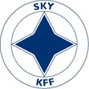
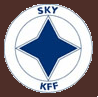
Brown colors

diff --git a/services.html b/services.html
@@ -67,105 +67,6 @@
                 käyttämistämme tuotesarjoista.
               </p>
             </div>
-
-            <!-- KÄSIHOIDOT -->
-            <div class="service-section">
-              <h1 id="hand-treatment" class="page-header">Käsihoidot</h1>
-              <p>
-                Jokainen kasvohoito on mukautettu ihosi erityispiirteiden mukaan ja on aina yksilöllisesti valittu
-                hoitokokonaisuus. Kaikkiin kasvohoitoihin voidaan yhdistää hoidon tehoa lisäävä konehoito.
-              </p>
-              <ul>
-                <li><strong>Timanttimikrohionta</strong></li>
-                <li><strong>Sonolift ultraääni</strong></li>
-              </ul>
-              <p>
-                Kaikkiin kasvohoitoihin sisältyy kaulan ja hartiaseudun hoito. Laadimme Sinulle halutessasi
-                hoitotuloksia ylläpitävän kotihoito-ohjelman. Hoitolastamme löydät laajan valikoiman kotihoitotuotteita
-                käyttämistämme tuotesarjoista.
-              </p>
-            </div>
-
-            <!-- JALKAHOIDOT -->
-            <div class="service-section">
-              <h1 id="foot-treatment" class="page-header">Jalkahoidot</h1>
-              <p>
-                Jokainen kasvohoito on mukautettu ihosi erityispiirteiden mukaan ja on aina yksilöllisesti valittu
-                hoitokokonaisuus. Kaikkiin kasvohoitoihin voidaan yhdistää hoidon tehoa lisäävä konehoito.
-              </p>
-              <ul>
-                <li><strong>Timanttimikrohionta</strong></li>
-                <li><strong>Sonolift ultraääni</strong></li>
-              </ul>
-              <p>
-                Kaikkiin kasvohoitoihin sisältyy kaulan ja hartiaseudun hoito. Laadimme Sinulle halutessasi
-                hoitotuloksia ylläpitävän kotihoito-ohjelman. Hoitolastamme löydät laajan valikoiman kotihoitotuotteita
-                käyttämistämme tuotesarjoista.
-              </p>
-            </div>
-
-            <!-- VARTALOHOIDOT -->
-            <div class="service-section">
-              <h1 id="body-treatment" class="page-header">Vartalohoidot</h1>
-              <p>
-                Jokainen kasvohoito on mukautettu ihosi erityispiirteiden mukaan ja on aina yksilöllisesti valittu
-                hoitokokonaisuus. Kaikkiin kasvohoitoihin voidaan yhdistää hoidon tehoa lisäävä konehoito.
-              </p>
-              <ul>
-                <li><strong>Timanttimikrohionta</strong></li>
-                <li><strong>Sonolift ultraääni</strong></li>
-              </ul>
-              <p>
-                Kaikkiin kasvohoitoihin sisältyy kaulan ja hartiaseudun hoito. Laadimme Sinulle halutessasi
-                hoitotuloksia ylläpitävän kotihoito-ohjelman. Hoitolastamme löydät laajan valikoiman kotihoitotuotteita
-                käyttämistämme tuotesarjoista.
-              </p>
-            </div>
-
-            <!-- CARBOKSI-TERAPIA -->
-            <div class="service-section">
-              <h1 id="carboksi" class="page-header">Carboksi-terapia</h1>
-              <p>
-                Carboksiterapialla hoidetaan turvallisesti koko kehoa ja kaikkia ihotyyppejä. Hoidon aikana tunnet hiilidioksidikuplien aiheuttaman kutituksen
-                iholla. Hoidosta ei seuraa epämukavaa oloa tai toipumisaikaa.
-              </p>
-            </div>
-
-            <!-- MIESTEN HOIDOT -->
-            <div class="service-section">
-              <h1 id="men-treatment" class="page-header">Miesten hoidot</h1>
-              <p>
-                Jokainen kasvohoito on mukautettu ihosi erityispiirteiden mukaan ja on aina yksilöllisesti valittu
-                hoitokokonaisuus. Kaikkiin kasvohoitoihin voidaan yhdistää hoidon tehoa lisäävä konehoito.
-              </p>
-              <ul>
-                <li><strong>Timanttimikrohionta</strong></li>
-                <li><strong>Sonolift ultraääni</strong></li>
-              </ul>
-              <p>
-                Kaikkiin kasvohoitoihin sisältyy kaulan ja hartiaseudun hoito. Laadimme Sinulle halutessasi
-                hoitotuloksia ylläpitävän kotihoito-ohjelman. Hoitolastamme löydät laajan valikoiman kotihoitotuotteita
-                käyttämistämme tuotesarjoista.
-              </p>
-            </div>
-
-            <!-- KESTOPIGMENTOINTI -->
-            <div class="service-section">
-              <h1 class="page-header">Kestopigmentointi</h1>
-              <p>
-                Jokainen kasvohoito on mukautettu ihosi erityispiirteiden mukaan ja on aina yksilöllisesti valittu
-                hoitokokonaisuus. Kaikkiin kasvohoitoihin voidaan yhdistää hoidon tehoa lisäävä konehoito.
-              </p>
-              <ul>
-                <li><strong>Timanttimikrohionta</strong></li>
-                <li><strong>Sonolift ultraääni</strong></li>
-              </ul>
-              <p>
-                Kaikkiin kasvohoitoihin sisältyy kaulan ja hartiaseudun hoito. Laadimme Sinulle halutessasi
-                hoitotuloksia ylläpitävän kotihoito-ohjelman. Hoitolastamme löydät laajan valikoiman kotihoitotuotteita
-                käyttämistämme tuotesarjoista.
-              </p>
-            </div>
           </div>
           <!-- Sivupalkin menu -->
           <div class="col-md-3">
@@ -173,23 +74,20 @@
               <li>
                 <a href="services.html#face-treatment">Kasvohoidot</a>
                 <ul>
+                  <li><a href="medik.html">Medik8</a></li>
                   <li><a href="mikroneulaus.html">Mikroneulaus</a></li>
-                  <li><a href="dermicapen.html">Dermica Pen</a></li>
+                  <li><a href="karboksi.html">Karboksiterapia</a></li>
                   <li><a href="infusion.html">Infusion</a></li>
-                  <li><a href="mdformulations.html">Md formulations</a></li>
+                  <li><a href="decleor.html">Decleor</a></li>
+                  <li><a href="timantti.html">Timantti -ja ultraäänihoidot</a></li>
+                  <li><a href="eckstein.html">Eckstein</a></li>
                 </ul>
               </li>
-              <li><a href="services.html#hand-treatment">Käsihoidot</a></li>
-              <li><a href="services.html#foot-treatment">Jalkahoidot</a></li>
-              <li><a href="services.html#body-treatment">Vartalohoidot</a></li>
-              <li>
-              	<a href="services.html#carboksi">Carboksi-terapia</a>
-              	<ul>
-              		<li><a href="carboksi.html">Lue lisää</a></li>
-              	</ul>
-       		  </li>
-              <li><a href="services.html#men-treatment">Miesten hoidot</a></li>
-              <li><a href="services.html#">Kestopigmentointi</a></li>
+              <li><a href="kasihoidot.html">Käsihoidot</a></li>
+              <li><a href="jalkahoidot.html">Jalkahoidot</a></li>
+              <li><a href="vartalohoidot.html">Vartalohoidot</a></li>
+              <li><a href="miehille.html">Miehille</a></li>
+              <li><a href="infrapuna.html">Infrapunasauna</a></li>
             </ul>
           </div>
         </div>

diff --git a/css/tinas.css b/css/tinas.css
@@ -5,8 +5,12 @@
  * Middle:     #5ab953
  * Light: 		 #beee9e
  * Lightest:   #e6ffbf
- old heder:#49a34b
+ old header:#49a34b
  old footer:#f5f5f5
+ old hover #5ab953
+ old active menu #3f8c40
+ old side menu text #3f8c40
+ old side menu hover #e6ffbf
  */
 body {
 
@@ -17,7 +21,7 @@ body {
 .navbar-custom {
   background-color: #4E2E28;
   margin-bottom: 0;
-	border-bottom: 1px solid #3f8c40;
+	border-bottom: 1px solid #4E2E28;
 }
 .navbar-custom .navbar-brand {
   color: #ffffff;
@@ -36,19 +40,19 @@ body {
 .navbar-custom .navbar-nav > li > a:hover,
 .navbar-custom .navbar-nav > li > a:focus {
   color: #ffffff;
-  background-color: #5ab953;
+  background-color: #8B3E2F;
 }
 .navbar-custom .navbar-nav > .active > a,
 .navbar-custom .navbar-nav > .active > a:hover,
 .navbar-custom .navbar-nav > .active > a:focus {
   color: #ffffff;
-  background-color: #3f8c40;
+  background-color: #B3432B;
 }
 .navbar-custom .navbar-nav > .disabled > a,
 .navbar-custom .navbar-nav > .disabled > a:hover,
 .navbar-custom .navbar-nav > .disabled > a:focus {
   color: #cccccc;
-  background-color: #5ab953;
+  background-color: #8B3E2F;
 }
 .navbar-custom .navbar-toggle {
   border-color: #dddddd;
@@ -62,7 +66,7 @@ body {
 }
 .navbar-custom .navbar-collapse,
 .navbar-custom .navbar-form {
-  border-color: #3e8a40;
+  border-color: #B3432B;
 }
 .navbar-custom .navbar-nav > .dropdown > a:hover .caret,
 .navbar-custom .navbar-nav > .dropdown > a:focus .caret {
@@ -72,7 +76,7 @@ body {
 .navbar-custom .navbar-nav > .open > a,
 .navbar-custom .navbar-nav > .open > a:hover,
 .navbar-custom .navbar-nav > .open > a:focus {
-  background-color: #3f8c40;
+  background-color: #B3432B;
   color: #ffffff;
 }
 .navbar-custom .navbar-nav > .open > a .caret,
@@ -92,19 +96,19 @@ body {
   .navbar-custom .navbar-nav .open .dropdown-menu > li > a:hover,
   .navbar-custom .navbar-nav .open .dropdown-menu > li > a:focus {
     color: #ffffff;
-    background-color: #5ab953;
+    background-color: #8B3E2F;
   }
   .navbar-custom .navbar-nav .open .dropdown-menu > .active > a,
   .navbar-custom .navbar-nav .open .dropdown-menu > .active > a:hover,
   .navbar-custom .navbar-nav .open .dropdown-menu > .active > a:focus {
     color: #ffffff;
-    background-color: #3f8c40;
+    background-color: #B3432B;
   }
   .navbar-custom .navbar-nav .open .dropdown-menu > .disabled > a,
   .navbar-custom .navbar-nav .open .dropdown-menu > .disabled > a:hover,
   .navbar-custom .navbar-nav .open .dropdown-menu > .disabled > a:focus {
     color: #cccccc;
-    background-color: #5ab953;
+    background-color: #8B3E2F;
   }
 }
 .navbar-custom .navbar-link {
@@ -116,7 +120,10 @@ body {
 
 /* NAVBAR END */
 
-
+.btn-success {
+	background-color:#4E2E28;
+	border:#4E2E28;
+}	
 .main-content {
   padding: 40px 15px;
 }
@@ -129,7 +136,7 @@ img.carousel-image {
 
 /* FRONT PAGE JUMBOTRON */
 .jumbotron {
-	text-align: center;
+	text-align: left;
 	background-color: transparent;
 }
 /* JUMBOTRON END */
@@ -150,12 +157,12 @@ ul.service-nav > li > a {
 	display: block;
 	padding: 10px;
 	border-bottom: 1px solid #ddd;
-	color: #3f8c40;
+	color: #8B3E2F;
 }
 
 ul.service-nav > li > a:hover {
 	text-decoration: none;
-	background-color: #e6ffbf;
+	background-color: #EBC79E;
 }
 
 ul.service-nav > li > ul {
@@ -165,13 +172,13 @@ ul.service-nav > li > ul {
 
 ul.service-nav > li > ul > li > a {
 	display: block;
-	color: #3f8c40;
+	color: #8B3E2F;
 	padding: 3px 7px;
 }
 
 ul.service-nav > li > ul > li > a:hover {
 	text-decoration: none;
-	background-color: #e6ffbf;
+	background-color: #EBC79E;
 }
 /* SERVICE PAGE RIGHT SIDE NAV ELEMENT END */
 
@@ -207,6 +214,10 @@ body {
 		border-top: 1px solid #ddd;
 	}
 }
+.text-muted {
+  color: #F8F8FF;
+}
+
 /* Footer for windows smaller than 993px */
 @media (max-width: 993px) {
 	/* Wrapper for page content to push down footer */

diff --git a/index.html b/index.html
@@ -42,30 +42,30 @@
       <div id="front-page-carousel" class="carousel slide" data-ride="carousel" data-interval="5000">
         <!-- Indicators (you need as many as there are images below)-->
         <ol class="carousel-indicators">
-          <li data-target="#front-page-carousel" data-slide-to="0" class="active"></li>
+         <!-- <li data-target="#front-page-carousel" data-slide-to="0" class="active"></li>
           <li data-target="#front-page-carousel" data-slide-to="1"></li>
-          <li data-target="#front-page-carousel" data-slide-to="2"></li>
+          <li data-target="#front-page-carousel" data-slide-to="4"></li>-->
+          <li data-target="#front-page-carousel" data-slide-to="2" class="active"></li>
           <li data-target="#front-page-carousel" data-slide-to="3"></li>
-          <li data-target="#front-page-carousel" data-slide-to="4"></li>
         </ol>
 
         <!--Carousel images, width 1170px, height 250px -->
         <div class="carousel-inner">
-          <div class="item active">
+          <!--<div class="item active">
             <img src="img/carousel1.jpg" alt="Carousel image 1" class="carousel-image">
           </div>
           <div class="item">
             <img src="img/carousel2.jpg" alt="Carousel image 2" class="carousel-image">
-          </div>
-          <div class="item">
+          </div>-->
+          <div class="item active">
             <img src="img/carousel3.jpg" alt="Carousel image 3" class="carousel-image">
           </div>
           <div class="item">
             <img src="img/carousel4.jpg" alt="Carousel image 4" class="carousel-image">
           </div>
-          <div class="item">
+          <!--<div class="item">
             <img src="img/carousel5.jpg" alt="Carousel image 5" class="carousel-image">
-          </div>
+          </div>-->
         </div>
 
         <!-- Controls -->
@@ -80,14 +80,17 @@
       <div class="container">
         <!-- Jumbotron -->
         <div class="jumbotron">
-          <h1>Tervetuloa hyvään oloon!</h1>
+          <h1>Kaunis iho ja keho - kaiken ikää</h1>
           <p class="lead">
-            Hemmottele itseäsi ja nauti rentouttavista hoitoelämyksistä keholle ja mielelle.
-            Tina’s Hoitola sijaitsee Espoon Viherlaaksossa, ostoskeskuksen alatasolla. Kauniainen, Tapiola,
-            Leppävaara ja Espoon keskus ovat kaikki lyhyen matkan päässä. Tutustu tarjontaamme ja varaa
-            aika itsellesi! Vi betjänar även på svenska!
+            Tina's Hoitola tarjoaa Sinulle mahdollisuuden irtatua arjen kiireestä ja nauttia hetken omaa aikaa.
+            Hoitolan tukipilarit ovat turvallisuus, hyvän välittäminen ja tehokkuus. Näiden arvojen kautta
+            sitoudumme toiminnassamme tuloksia tuoviin hoitoihin.<br/>
+            Toimintamme ytimessä on jatkuva alamme seuraaminen, koulutus ja uuden luominen. Haluamme jokaisen tuntevan,
+            että hän on ammattilaisen seurassa.
+            Sydämellisesti tervetuloa, ota rohkeasti yhteyttä!<br/>
+            -Tina's Hoitolan tiimi
           </p>
-          <p><a class="btn btn-lg btn-success" href="contact.html" role="button">Katso sijaintimme kartalla!</a></p>
+          <!--<p><a class="btn btn-lg btn-success" href="contact.html" role="button">Katso sijaintimme kartalla!</a></p>-->
         </div>
         <!-- Jumbotron end -->
 
